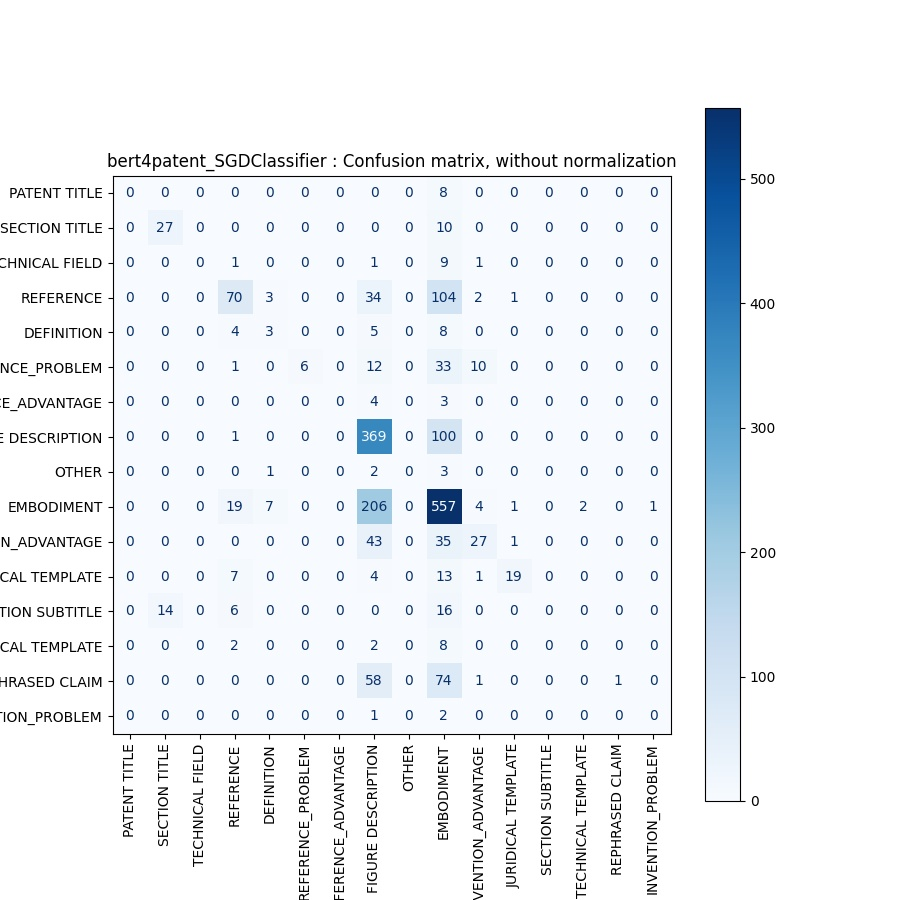
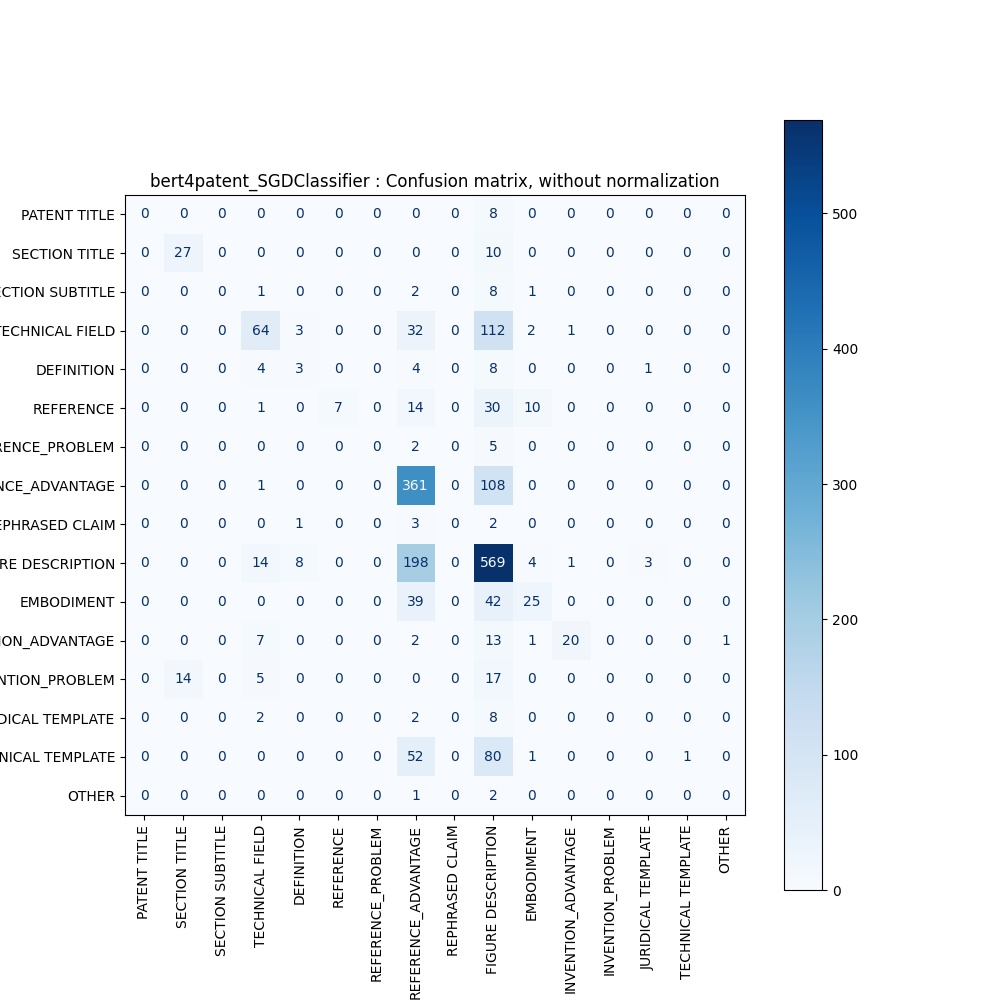
add :better order of labels (same as paper) for conf matrix

diff --git a/src/data_utils.py b/src/data_utils.py
@@ -1,6 +1,6 @@
 import json
 import os
-from typing import Any, Dict, List, Literal
+from typing import Any, Dict, List, Literal, Union
 import numpy as np
 from numpy.typing import NDArray
 from pathlib import Path
@@ -75,6 +75,10 @@ def compute_l2i_and_i2l_from_labels_per_patent(labels_per_patent):
     labels_flattened = flatten_labels_per_patent(labels_per_patent)
     return compute_l2i_and_i2l(labels_flattened)
 
+def compute_l2i_and_i2l_from_labels_list(labels: List[str]):
+    return compute_l2i_and_i2l(labels)
+
+
 def get_encoded_labels(labels, l2i):
     encoded_labels = []
     for label in labels:
@@ -95,7 +99,7 @@ def load_data(source: Literal["roberta", "bert4patent"]):
     return inputs_flattened, encoded_labels
 
 
-def load_data_splitted(source: Literal["roberta", "bert4patent"]):
+def load_data_splitted(source: Literal["roberta", "bert4patent"], labels: Union[List[str], None]=None ):
     inputs_per_patent = load_inputs_per_patent(source)
     labels_per_patent = load_labels_per_patent()
 
@@ -112,7 +116,11 @@ def load_data_splitted(source: Literal["roberta", "bert4patent"]):
     labels_flattened_train = flatten_labels_per_patent(labels_per_patent_train)
     labels_flattened_test = flatten_labels_per_patent(labels_per_patent_test)
 
-    l2i, i2l = compute_l2i_and_i2l_from_labels_per_patent(labels_per_patent)
+    if labels == None:
+        l2i, i2l = compute_l2i_and_i2l_from_labels_per_patent(labels_per_patent)
+    else:
+        l2i, i2l = compute_l2i_and_i2l_from_labels_list(labels)
+
     encoded_labels_train = get_encoded_labels(labels_flattened_train, l2i)
     encoded_labels_test = get_encoded_labels(labels_flattened_test, l2i)
 

diff --git a/src/confusion_matrices.py b/src/confusion_matrices.py
@@ -13,8 +13,27 @@ from data_utils import QuatentPatentSentenceDataset, load_data_splitted
 
 PATH_FIGURES_FOLDER = PATH_LABELS_TXT = Path(__file__).parent.parent / "figures"
 
+labels = [
+    'PATENT TITLE',
+    'SECTION TITLE',
+    'SECTION SUBTITLE',
+    'TECHNICAL FIELD',
+    'DEFINITION',
+    'REFERENCE',
+    'REFERENCE_PROBLEM',
+    'REFERENCE_ADVANTAGE',
+    'REPHRASED CLAIM',
+    'FIGURE DESCRIPTION',
+    'EMBODIMENT',
+    'INVENTION_ADVANTAGE',
+    'INVENTION_PROBLEM',
+    'JURIDICAL TEMPLATE',
+    'TECHNICAL TEMPLATE',
+    'OTHER',
+    ]
+
 def compute_and_save_conf_matrix(model, X_test, y_test, name, labels):
-    plt.rcParams["figure.figsize"] = (9, 9)
+    plt.rcParams["figure.figsize"] = (10, 10)
 
 
     # Plot non-normalized confusion matrix
@@ -46,7 +65,7 @@ def compute_and_save_conf_matrix(model, X_test, y_test, name, labels):
 for source in ["roberta", "bert4patent"]:
     dataset = QuatentPatentSentenceDataset(source)
     X_train, y_train, X_test, y_test, l2i = load_data_splitted(source)
-    labels = list(l2i.keys())
+    # labels = list(l2i.keys())
     pca = PCA(n_components=500)
 
     X_train_reduced = pca.fit_transform(X_train)
